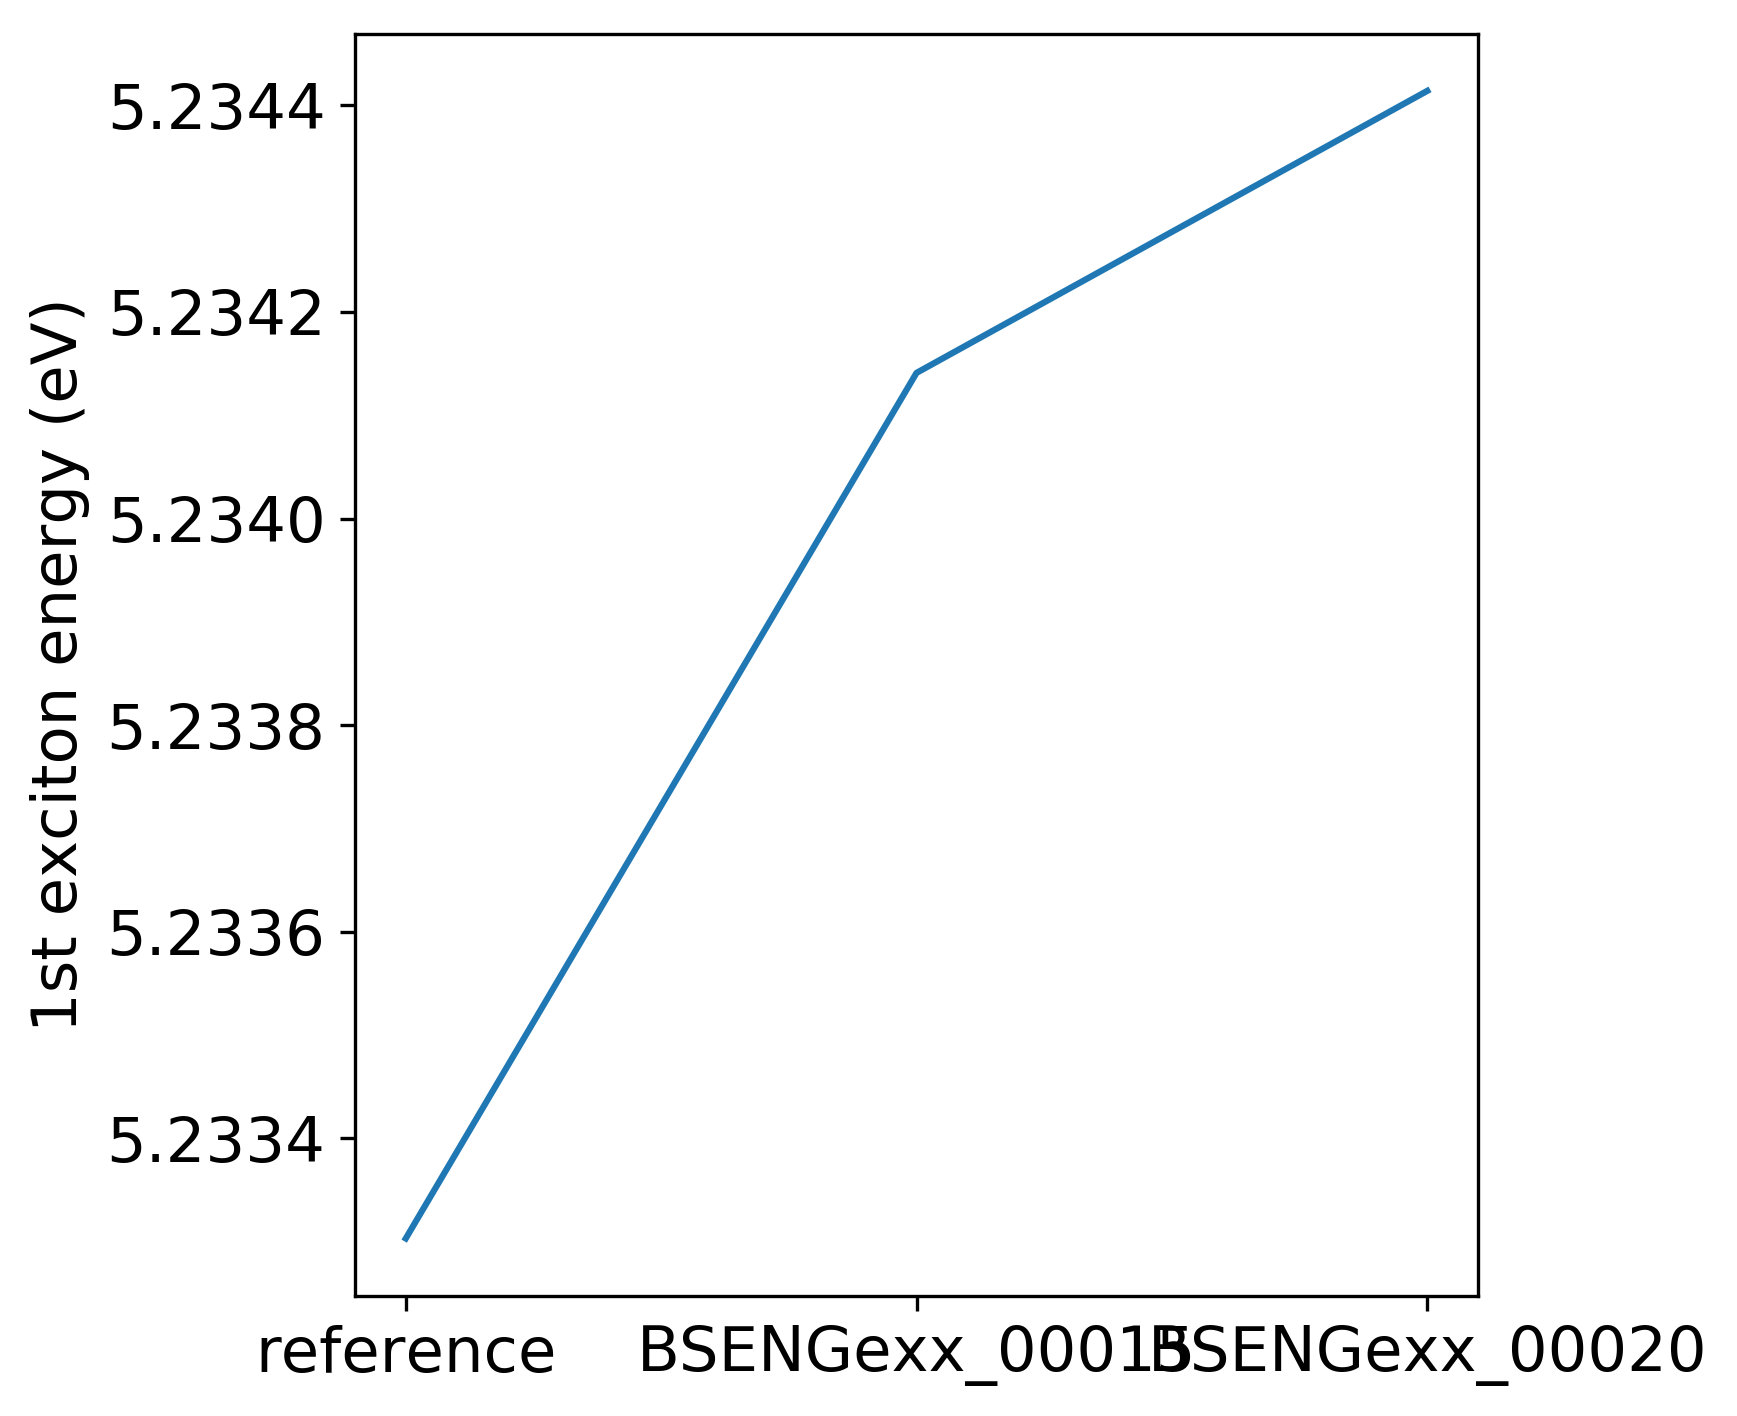
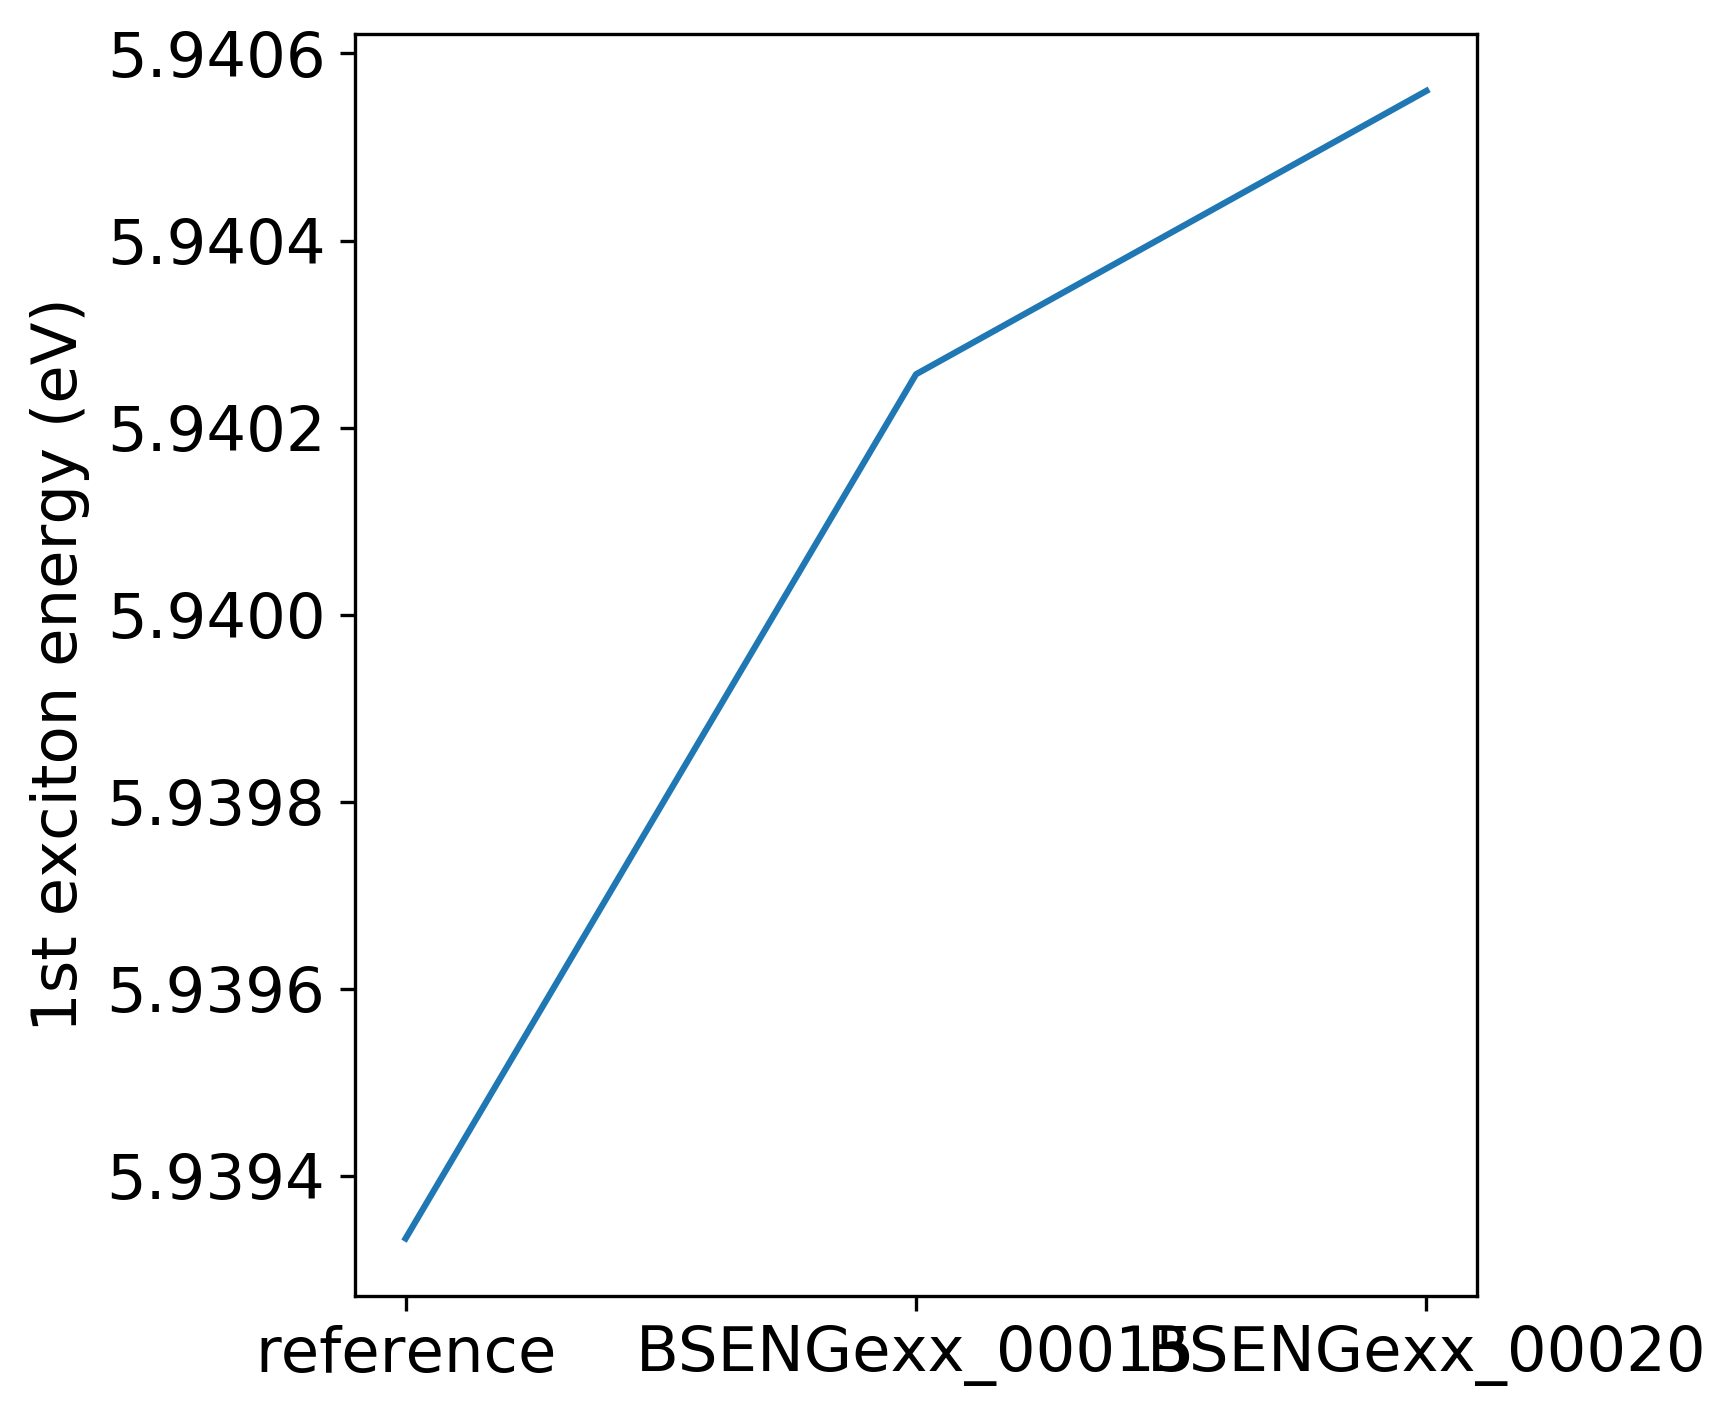
Minor updates in the bn tutorial

diff --git a/tutorial/bn/bse_cutoff.py b/tutorial/bn/bse_cutoff.py
@@ -14,6 +14,7 @@ import sys
 prefix = "bn"
 yambo = "yambo"
 p2y = 'p2y'
+pw = 'pw.x'
 layer_separations = [10,15,20,25,30,35,40]
 scf_kpoints  = [ 9, 9,1]
 nscf_kpoints = [12,12,1]
@@ -101,7 +102,7 @@ def run_job(layer_separation,nthreads=1,work_folder='bse_cutoff',cut=False):
     print("scf cycle")
     print("kpoints",scf_kpoints)
     scf(layer_separation,folder="%s/scf"%root_folder)
-    shell.add_command("pushd %s/scf; pw.x < %s.scf > scf.log"%(root_folder,prefix))
+    shell.add_command("pushd %s/scf; mpirun -np %d %s < %s.scf > scf.log"%(root_folder,nthreads,pw,prefix))
     shell.add_command("popd")
 
     # 2. run the non self consistent calculation
@@ -112,7 +113,7 @@ def run_job(layer_separation,nthreads=1,work_folder='bse_cutoff',cut=False):
     nscf(layer_separation,folder="%s/nscf"%root_folder)
 
     shell.add_command('cp -r %s %s'%(src,dst) )
-    shell.add_command("pushd %s/nscf; pw.x < %s.nscf > nscf.log"%(root_folder,prefix))
+    shell.add_command("pushd %s/nscf; mpirun -np %d %s < %s.nscf > nscf.log"%(root_folder,nthreads,pw,prefix))
     shell.add_command('popd')
 
     # generate the database

diff --git a/tutorial/bn/bse_conv_bn.py b/tutorial/bn/bse_conv_bn.py
@@ -73,7 +73,7 @@ def bse_convergence(what='dielectric',threads=1,nohup=False):
         y['BSEBands'] = [1,10]
 
         #list of variables to optimize the BSE
-        conv = { 'BSEEhEny': [[[1,10],[1,11],[1,12]],'eV'],
+        conv = { 'BSEEhEny': [[[1,10],[1,12],[1,14]],'eV'],
                  'BSENGBlk': [[0,1,2], 'Ry'],
                  'BSENGexx': [[10,15,20],'Ry']}
 

diff --git a/yambopy/dbs/em1sdb.py b/yambopy/dbs/em1sdb.py
@@ -17,8 +17,6 @@ class YamboStaticScreeningDB():
 
     .. math::
 
-        \epsilon = \\frac{1}{1-v\chi}
-
         \epsilon^{-1} = 1-v\chi
 
     """

diff --git a/docs/source/tutorial.rst b/docs/source/tutorial.rst
@@ -227,21 +227,26 @@ The relevant convergence parameters for these two stages are:
     ``NGsBlkXs``: number of components for the local fields. Averages the value of the dielectric screening over a number of periodic copies of the unit cell. This parameter increases greatly increases the cost of the calculation and hence should be increased slowly. A typical good value is 2 Ry.
 
 
-To run these calculations, you need to have calculated the scf and nscf with quantum espresso:
+To run these calculations, you need to relax the structure ``-r``, calculate the scf ``-s`` and nscf ``-n`` with Quantum Espresso:
 
 .. code-block:: bash
 
-    python gs_bn.py -s -n
+    python gs_bn.py -r -s -n
 
-Once that is done, you can run:
+When that is done, you can converge the dielectric function, for this run:
+
+.. code-block:: bash
 
     python bse_conv_bn.py -r -e
 
-Once the parameters are converged, you can run a calculation with these converged parameters and save the dielectric screening databases ``ndb.em1s*`` for re-use them in the subsequent calculations.
-For that you can copy these files to the SAVE folder. This is done in the ``run`` function inside the ``bse_conv_bn.py`` file.
-``yambo`` will only re-calculate any database if it does not find it or some parameter has changed.
+Using the optimal parameters, you can run a calculation and save the dielectric screening
+databases ``ndb.em1s*`` to re-use them in the subsequent calculations.
+For that you can copy these files to the SAVE folder. This is done in
+the ``run`` function inside the ``bse_conv_bn.py`` file.
+``yambo`` will only re-calculate any database if it does not find it
+or some parameter has changed.
 
-Once the calculation is done you can plot the static dielectric function as a function of q points:
+Once the calculations are done you can plot the static dielectric function as a function of q points:
 
 .. code-block:: bash
 
@@ -262,7 +267,9 @@ Once the calculation is done you can plot the static dielectric function as a fu
 
 **b. Optical absorption spectra**
 
-Once you obtained a converged dielectric screening function you can calculate the Bethe-Salpeter auxiliary Hamiltonian and obtain the excitonic states and energies diagonalizing it or calculating the optical absorption spectra with a recursive technique like the Haydock method.
+Once you obtained a converged dielectric screening function you can calculate the Bethe-Salpeter
+auxiliary Hamiltonian and obtain the excitonic states and energies diagonalizing it or
+calculating the optical absorption spectra with a recursive technique like the Haydock method.
 
     ``BSEBands``: number of bands to generate the transitions. Should be as small as possible as the size of the BSE auxiliary hamiltonian has (in the resonant approximation) dimensions ``Nk*Nv*Nc``. Another way to converge the number of transitions is using ``BSEEhEny``. This variable selects the number of transitions based on the electron-hole energy difference.
 
@@ -331,48 +338,6 @@ using the ``multiprocessing`` module of python. The way it is implemented it wil
 
 The main loop changes the ``layer_separation`` variable using values from a list.
 In the script you can find how the functions ``scf``, ``ncf`` and ``database`` are defined.
-
-.. code-block:: python
-
-    #for each separation run the ground state calculation and
-    for layer_separation in layer_separations:
-
-      root_folder = "%s/%d"%(work_folder,layer_separation)
-      if not os.path.isdir(root_folder):
-          os.makedirs(root_folder)
-
-      # run the ground state calculation
-      print("scf cycle")
-      scf(layer_separation,folder="%s/scf"%root_folder)
-      os.system("cd %s/scf; pw.x < %s.scf > scf.log"%(root_folder,prefix))
-
-      # run the non self consistent calculation
-      print("nscf cycle")
-      src ='%s/scf/%s.save'%(root_folder,prefix)
-      dst ='%s/nscf/%s.save'%(root_folder,prefix)
-      nscf(layer_separation,folder="%s/nscf"%root_folder)
-      os.system( 'cp -r %s %s'%(src,dst) )
-      os.system("cd %s/nscf; pw.x < %s.nscf > nscf.log"%(root_folder,prefix))
-
-      # generate the database
-      database('%s'%root_folder,nscf_folder="%s/nscf"%root_folder)
-
-      # calculate the absorption spectra using yambo
-      y = YamboIn('yambo -r -b -o b -k sex -y d -V all',folder=root_folder)
-
-      y['FFTGvecs'] = [30,'Ry']
-      y['NGsBlkXs'] = [1,'Ry']
-      y['BndsRnXs'] = [1,30]
-
-      y['CUTGeo'] = 'box z'
-      y['CUTBox'] = [0,0,layer_separation-1]
-
-      y['KfnQP_E']  = [1.0,1.0,1.0] #scissor operator
-      y['BSEBands'] = [3,6]
-      y['BEnSteps'] = 500
-      y['BEnRange'] = [[1.0,6.0],'eV']
-      y.write('%s/yambo_run.in'%root_folder)
-      os.system('cd %s; %s -F yambo_run.in -J %d'%(root_folder,yambo,layer_separation))
 
 **3. Plot the dielectric function**
 
@@ -457,11 +422,11 @@ You should then obtain plots similar (these ones were generated on a 30x30 k-poi
    :width: 600 px
 
 
-Again, be aware that this figures serves only to show the kind of representation 
+Again, be aware that this figures serve only to show the kind of representation 
 that can be obtained with ``yambo`` and ``yambopy``.
 Further convergence tests need to be performed to obtain accurate results, but that is left to the user.
 
-Some plots of excitonic wavefunctions in real space are show in a parallel project in:
+You can now visualize these wavefunctions using our online tool:
 `http://henriquemiranda.github.io/excitonwebsite/ <http://henriquemiranda.github.io/excitonwebsite/>`_ 
 
 4. Parallel static screening
